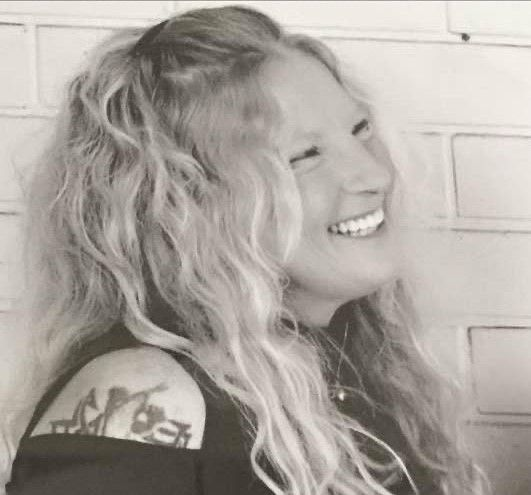
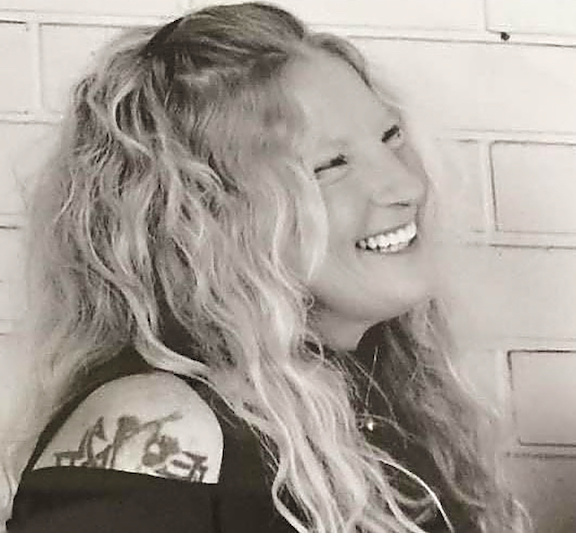
aa

diff --git a/src/templates/supportersList.js b/src/templates/supportersList.js
@@ -153,13 +153,14 @@ export const query = graphql`
                       image {
                         alt
                         gatsbyImageData(
-                          width: 576
-                          #breakpoints: [576, 768, 992]
-                          layout: CONSTRAINED
+                          # width: 576
+                          # breakpoints: [576, 768, 992]
+                          #layout: CONSTRAINED
                           placeholder: BLURRED
                           imgixParams: {
                             q: 100
-                            fit: "crop"
+                            fit: "fill"
+                            w: 576
                             fm: "avif, webp"
                             nr: 20
                             nrs: 50

diff --git a/src/components/supporters/list/item.js b/src/components/supporters/list/item.js
@@ -64,7 +64,7 @@ const PeerSupportersItem = ({ listStyle, thisItem, index, listLength }) => {
         <ItemWrapper
           className="item show"
           ref={gridItem}
-          role={`Item ${index + 1} of ${listLength}`}
+          // role={`Item ${index + 1} of ${listLength}`}
         >
           <Link to={linkResolver(item)} className="card">
             <ItemContent className={listStyle}>
